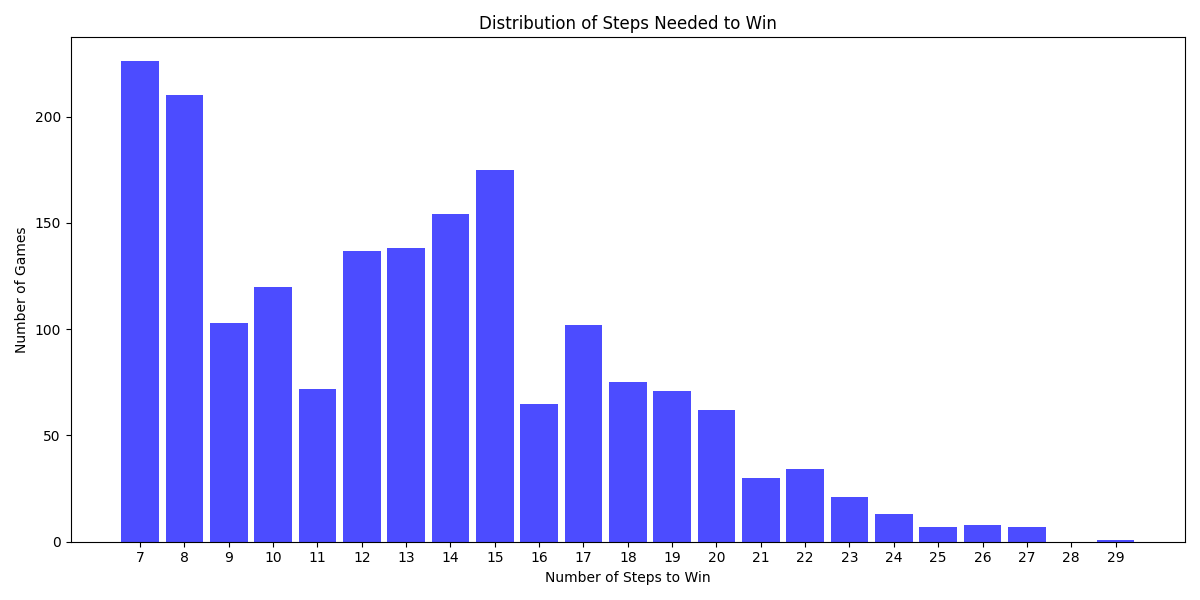
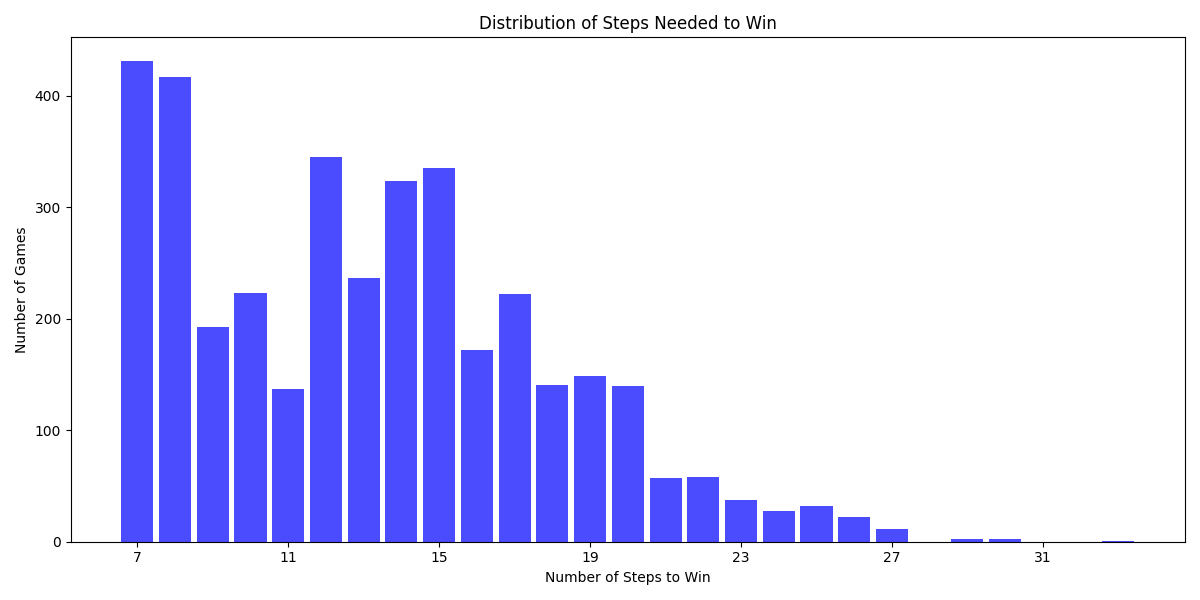
Reworked FolAgent to work with testing code

diff --git a/first_order_logic/fol_agent.py b/first_order_logic/fol_agent.py
@@ -12,15 +12,9 @@ class FOLAgent:
         self.state_counter = 0
         self.rendering = rendering
         self.log = log
-        self.max_steps = 100
 
         self.initialize_prolog()
 
-    def reset(self):
-        self.state_counter = 0
-        obs, _ = self.env.reset()
-        self.initialize_prolog()
-        return obs
 
     def initialize_prolog(self):
         # Clear existing facts in Prolog
@@ -47,10 +41,7 @@ class FOLAgent:
         gx, gy = self.env.gold_pos
         self.prolog.assertz(f"gold({gx}, {gy})")
 
-        # Add agent position and orientation
-        ax, ay = self.env.agent_pos
-        self.prolog.assertz(f"agent({ax}, {ay}, {self.state_counter})")
-        self.prolog.assertz(f"orientation({['north', 'east', 'south', 'west'][self.env.agent_dir]}, {self.state_counter})")
+        self.update_agent_position_and_orientation()
 
         # Add starting position
         sx, sy = self.env.entrance
@@ -65,8 +56,6 @@ class FOLAgent:
         if self.log:
             self.prolog.assertz(f"log(true)")
 
-        # Update knowledge base
-        self.update_kb(self.env._get_observation())
 
     def update_kb(self, perceptions):
         ax, ay = self.env.agent_pos
@@ -104,37 +93,15 @@ class FOLAgent:
         decision = list(self.prolog.query(f"make_decision(Action, {self.state_counter})"))[0]["Action"]
         return decision
 
-    def execute_action(self, action):
-        if action == config.ACTION_GRAB:
-            if self.env.agent_pos == self.env.gold_pos:
-                list(self.prolog.query(f"retract(gold({self.env.gold_pos[0]}, {self.env.gold_pos[1]}))"))
-        elif action == config.ACTION_SHOOT:
-            list(self.prolog.query(f"retract(wumpus({self.env.wumpus_pos[0]}, {self.env.wumpus_pos[1]}))"))
+    def act(self, obs):
 
-        obs, _, _, _, feedback = self.env.step(action)
+        self.update_kb(obs)
+        self.state_counter += 1
+        self.update_agent_position_and_orientation()
 
-        return obs, feedback["won"]
-
-    def render_environment(self):
-        self.env.render()
-        time.sleep(0.35)
-        # input("Press Enter to continue...")  # Wait for user input after rendering
-
-    def run(self):
-        done = False
-
-        for i in range(self.max_steps):
-            action, has_won, _ = self.act()
-            if has_won:
-                done = True
-                break
-
-        return 1 if done else 0
-
-    def act(self):
         # Render the environment at each step
         if self.rendering:
-            self.render_environment()
+            self.env.render()
 
         action = self.make_decision()
         self.update_result(action)
@@ -150,26 +117,33 @@ class FOLAgent:
         }
         action_int = action_map[action]
 
-        obs, has_won = self.execute_action(action_int)
+        if action == config.ACTION_GRAB:
+            if self.env.agent_pos == self.env.gold_pos:
+                list(self.prolog.query(f"retract(gold({self.env.gold_pos[0]}, {self.env.gold_pos[1]}))"))
+        elif action == config.ACTION_SHOOT:
+            list(self.prolog.query(f"retract(wumpus({self.env.wumpus_pos[0]}, {self.env.wumpus_pos[1]}))"))
 
-        self.update_kb(obs)
-        self.state_counter += 1
-        self.update_agent_position_and_orientation()
-
-        return action_int, has_won, obs
+        return action_int
 
 
 if __name__ == "__main__":
     rendering = False
-    default_map = False
     log = False
     GAME_COUNT = 10_000
     winCount = 0
-    for _ in range(GAME_COUNT) if not rendering else range(1):
-        env = WumpusWorldEnv(default_map=default_map, num_of_pits=3)
-        agent = FOLAgent(env, rendering=rendering, log=log)
-        win = agent.run()
-        winCount += win
+    max_steps = 100
+    env = WumpusWorldEnv(grid_size=4, default_map=False, num_of_pits=3, sensation_maps=False)
+    agent = FOLAgent(env, rendering=rendering, log=log)
+    for i in range(GAME_COUNT) if not rendering else range(1):
+        obs, info = env.reset()
+        agent.state_counter = 0
+        agent.initialize_prolog()
+        for step in range(max_steps):
+            action = agent.act(obs)
+            obs, _, _, _, info = env.step(action)
+            if info["won"]:
+                winCount += 1
+                break
     if not rendering:
         print(f"{GAME_COUNT} games finished. Win rate: {winCount/GAME_COUNT * 100:.2f}%")
     else:

diff --git a/models/test.py b/models/test.py
@@ -4,20 +4,22 @@ from models.dqn_agent import DQNAgent
 import matplotlib.pyplot as plt
 import pandas as pd
 import numpy as np
+from first_order_logic.fol_agent import FOLAgent
 
 def save_steps_plot(steps_to_win, agent_name):
     """ Save a histogram showing the distribution of steps needed to win. """
     plt.figure(figsize=(12, 6))
 
     min_steps = min(steps_to_win)
+    max_steps = max(steps_to_win)
 
-    bins = np.arange(min_steps, max(steps_to_win) + 2) - 0.5
+    bins = np.arange(min_steps, max_steps + 2) - 0.5
     plt.hist(steps_to_win, bins=bins, color='blue', alpha=0.7, rwidth=0.85)
 
     plt.xlabel('Number of Steps to Win')
     plt.ylabel('Number of Games')
     plt.title('Distribution of Steps Needed to Win')
-    plt.xticks(np.arange(min_steps, max(steps_to_win) + 1, step=1))
+    plt.xticks(np.arange(min_steps, max_steps + 1, 4))
     plt.tight_layout()
     plt.savefig(f"steps_to_win_distribution_{agent_name}.png")
     plt.close()
@@ -25,9 +27,10 @@ def save_steps_plot(steps_to_win, agent_name):
 
 if __name__ == "__main__":
     agents = [
-        {"name": "basic", "path": "random_map_weights/model_final_3pit.pt", "sensation_maps": False},
-        {"name": "greedy", "path": "greedy_agent_weights/model_final.pt", "sensation_maps": False},
-        {"name": "sensation", "path": "sensation_agent_weights/model_final_1-2-3pit.pt", "sensation_maps": True},
+        {"name": "basic", "path": "random_map_weights/model_final_3pit.pt", "sensation_maps": False, "model": []},
+        {"name": "greedy", "path": "greedy_agent_weights/model_final.pt", "sensation_maps": False, "model": []},
+        {"name": "sensation", "path": "sensation_agent_weights/model_final_1-2-3pit.pt", "sensation_maps": True, "model": []},
+        {"name": "fol", "sensation_maps": False, "model": []}
     ]
 
     results = [{"agent": agent["name"], "won": 0, "dead": 0, "steps": []} for agent in agents]
@@ -35,17 +38,19 @@ if __name__ == "__main__":
     base_env = WumpusWorldEnv(grid_size=4, default_map=False, num_of_pits=3, sensation_maps=False)
 
     done = False
-    agent_instances = []
     env_instances = []
 
     for i, agent in enumerate(agents):
         env_instances.append(WumpusWorldEnv(grid_size=4, default_map=False, num_of_pits=3, sensation_maps=agent["sensation_maps"]))
         state_dim = env_instances[i].observation_space.shape[0]
         action_dim = env_instances[i].action_space.n
-        agent_instances.append(DQNAgent(state_dim, action_dim, epsilon=0, epsilon2=0, min_epsilon=0, min_epsilon2=0))
-        agent_instances[i].load_model(f"{agent['path']}")
+        if agent["name"] == "fol":
+            agent["model"].append(FOLAgent(env_instances[i], rendering=False, log=False))
+        else:
+            agent["model"].append(DQNAgent(state_dim, action_dim, epsilon=0, epsilon2=0, min_epsilon=0, min_epsilon2=0))
+            agent["model"][0].load_model(f"{agent['path']}")
 
-    max_episodes = 5000
+    max_episodes = 10_000
     max_steps = 100
     won_games = 0
     dead_games = 0
@@ -63,14 +68,16 @@ if __name__ == "__main__":
             not_possible_games += 1
             continue
 
-        for i, agent in enumerate(agent_instances):
+        for i, agent in enumerate(agents):
             env_instances[i].reset()
             obs, info = env_instances[i].set_map_info(map_info)
+            if agent["name"] == "fol":
+                agent["model"][0].state_counter = 0
+                agent["model"][0].initialize_prolog()
             done = False
             steps = 0
-
             while not done and steps < max_steps:
-                action = agent.act(obs)
+                action = agent["model"][0].act(obs)
                 if action is None:
                     break
 

diff --git a/env/render.py b/env/render.py
@@ -72,7 +72,7 @@ class Renderer:
 
         self.draw_observation_bar(observation)
         pygame.display.flip()
-        self.clock.tick(30)
+        self.clock.tick(5)
 
     def close(self):
         pygame.quit()
